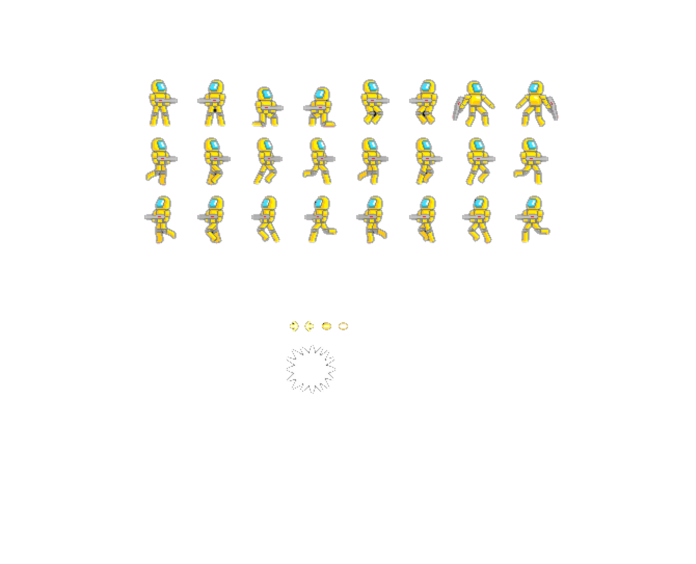
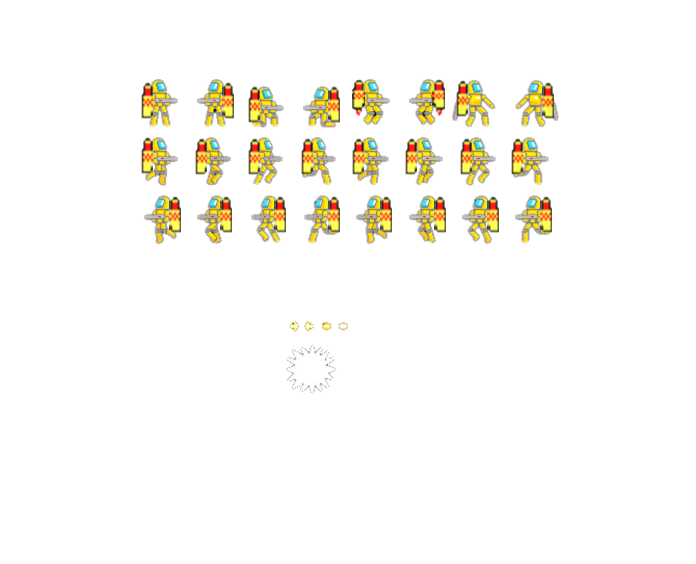
방향에따라 dir설정 및 제트팩추가

diff --git a/2DProject/Johnburr/player.py b/2DProject/Johnburr/player.py
@@ -7,41 +7,80 @@ class Player:
         self.x = get_canvas_width() // 2
         self.y = 110
         self.dx, self.dy = 0, 0
+        self.hh, self.hw =0, 0
         self.fidx = 0
         self.image = load_image(RES_DIR + '/player.png')
         self.action = 0
         self.dir = 0
+        self.speed =100
         self.gravity = 3.0
         self.time =0
+        self.sit =0
 
     def draw(self):
         sx = self.fidx * 53
         sy = self.action * 60
-        self.image.clip_draw(145 + sx, 430 + -sy, 30, 60, self.x, self.y, 40, 80)
+        self.image.clip_draw(140 + sx, 430  -sy, 40, 60, self.x, self.y, 50, 80)
 
     def update(self):
         self.time += gfw.delta_time
-        self.x += self.dx
-        self.y += self.dy - self.gravity
-        if self.y < 100:
+        self.x += self.dx * self.speed * gfw.delta_time
+        self.y += self.dy * self.speed * gfw.delta_time- self.gravity
+        self.hw, self.hh = 0, 110
+        self.x = clamp(self.hw, self.x, get_canvas_width() - self.hw)
+        self.y = clamp(self.hh, self.y, get_canvas_height() - 30)
+        if self.y < 110:
             self.y += self.gravity
-        if self.dx != 0:
-            self.fidx = int(self.time*10 + 0.5) % 8
-        elif self.dx == 0:
-            if self.dir == 0:
-                self.fidx = 1
-            elif self.dir == 1:
-                self.fidx = 0
+        if self.dx != 0: #움직일때
+            if self.y ==110:
+                if self.dir == 1:
+                    self.action = 1
+                    self.fidx = int(self.time * 10 + 0.5) % 8
+                elif self.dir == 0:
+                    self.action = 2
+                    self.fidx = int(self.time * 10 + 0.5) % 8
+            elif self.y != 110:
+                if self.dir == 0:
+                    self.fidx = 5
+                    self.action = 0
+                elif self.dir == 1:
+                    self.fidx = 4
+                    self.action = 0
+        elif self.dx == 0: #가만히 있을때
+            if self.y == 110:
+                if self.dir == 0:
+                    self.action = 0
+                    self.fidx = 1
+                    if self.sit == 1:
+                        self.fidx = 3
+                        self.action = 0
+                elif self.dir == 1:
+                    self.action = 0
+                    self.fidx = 0
+                    if self.sit == 1:
+                        self.fidx = 2
+                        self.action = 0
+            elif self.y !=110:
+                if self.dir == 0:
+                    self.fidx = 5
+                    self.action = 0
+                elif self.dir == 1:
+                    self.fidx = 4
+                    self.action = 0
 
     def handle_event(self, e):
         prev_dx = self.dx
         if e.type == SDL_KEYDOWN:
             if e.key == SDLK_LEFT:
                 self.dx -= 3
+                self.dir = 0
             elif e.key == SDLK_RIGHT:
+                self.dir = 1
                 self.dx += 3
             elif e.key == SDLK_DOWN:
                 self.dy -= 3
+                self.sit = 1
+
             elif e.key == SDLK_UP:
                 self.dy += 7
            # elif e.key == SDLK_SPACE:
@@ -53,17 +92,8 @@ class Player:
                 self.dx -= 3
             elif e.key == SDLK_DOWN:
                 self.dy += 3
+                self.sit = 0
             elif e.key == SDLK_UP:
                 self.dy -= 7
 
-        if prev_dx != self.dx:
-            if self.dx < 0:
-                self.action = 2
-            elif self.dx > 0:
-                self.action = 1
-            elif prev_dx < 0:
-                self.action = 0
-                self.dir = 0
-            elif prev_dx > 0:
-                self.action = 0
-                self.dir = 1
+
